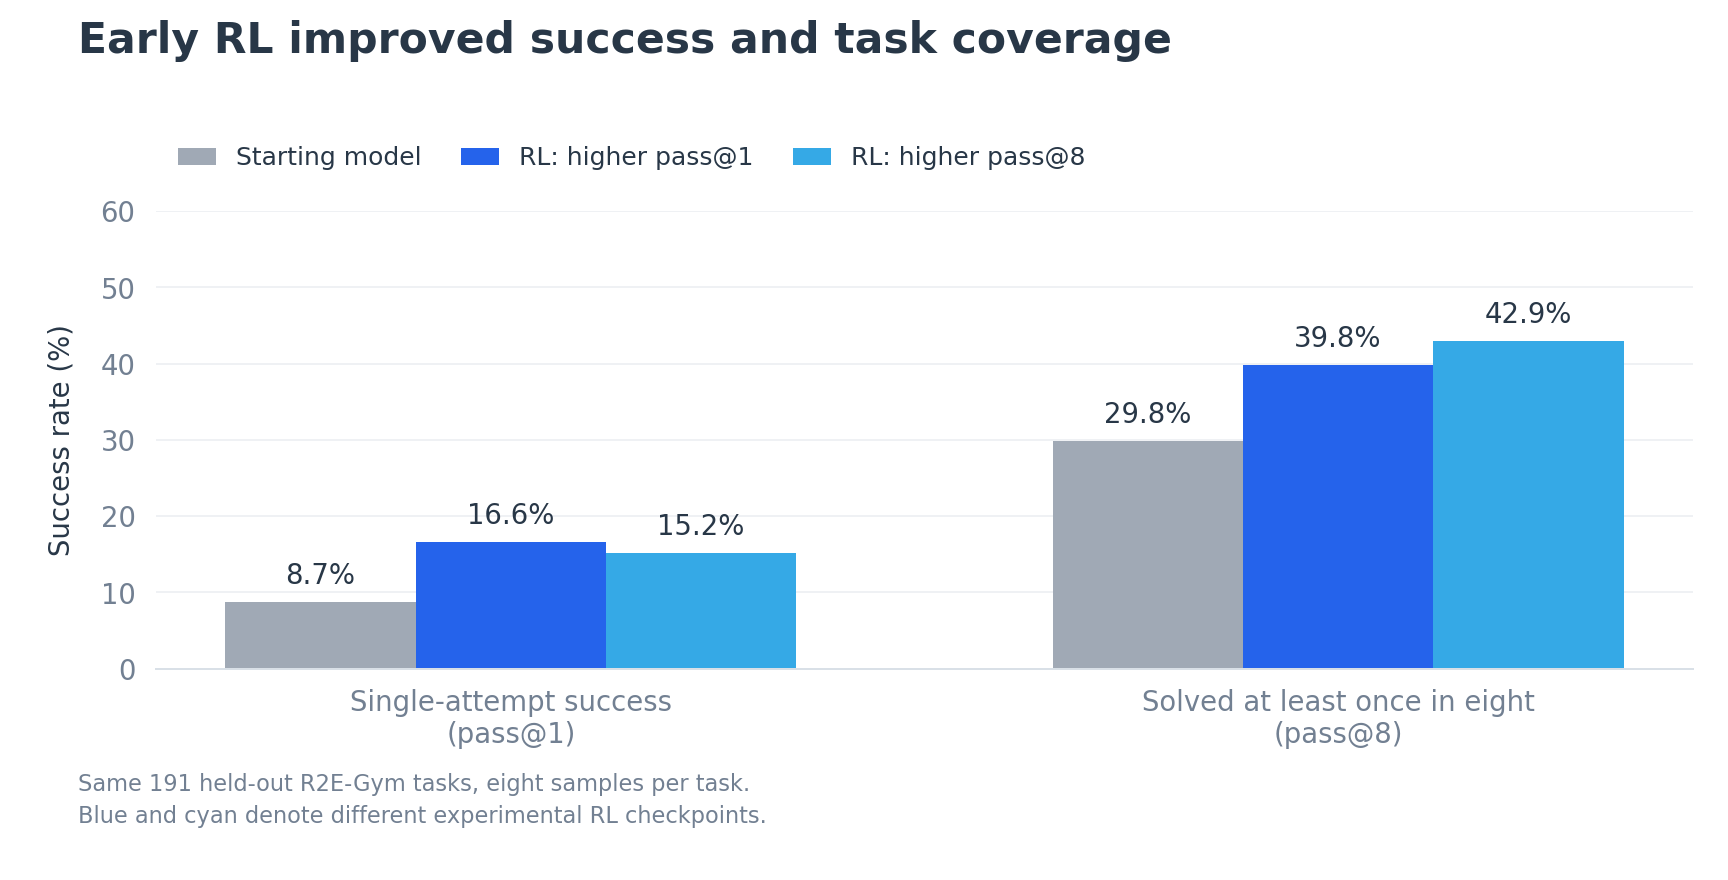
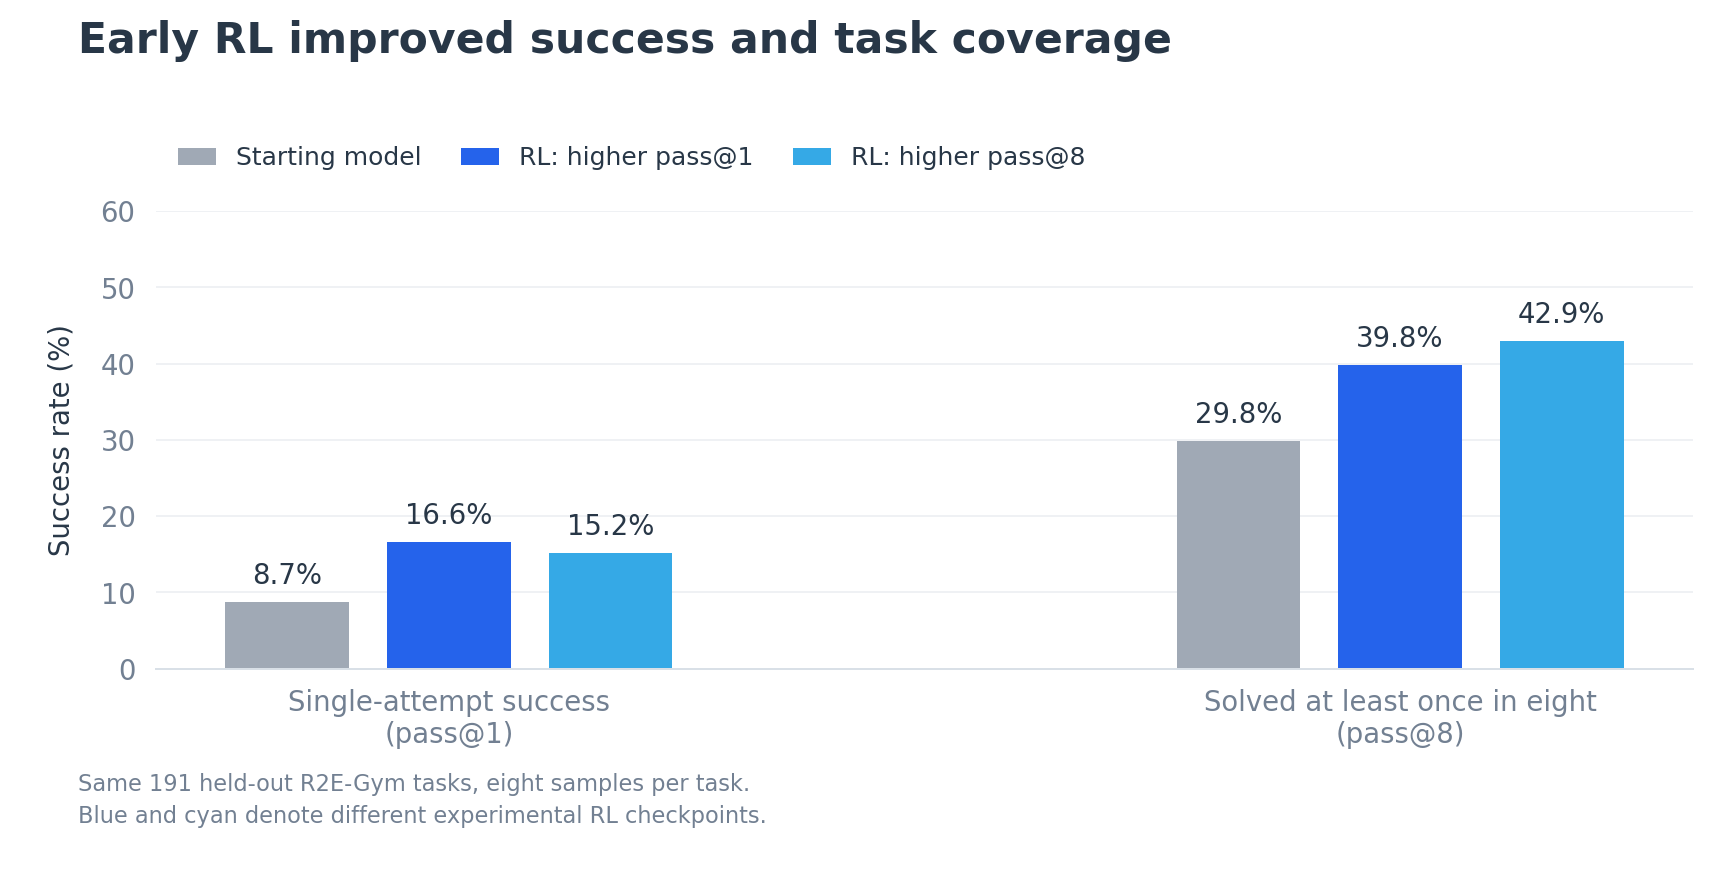
Slim early RL bars and separate checkpoints visually

Changed region(s): [[0.5938, 0.3375, 0.9375, 0.8591], [0.1562, 0.5523, 0.4688, 0.8591]]

diff --git a/scripts/render_snowball_results.py b/scripts/render_snowball_results.py
@@ -52,9 +52,10 @@ def early_rl():
         ("RL: higher pass@1", [16.6, 39.8], BLUE),
         ("RL: higher pass@8", [15.2, 42.9], LIGHT),
     ]
-    width = .23
+    width = .13
+    spacing = .17
     for i, (label, values, color) in enumerate(series):
-        bars = ax.bar(x + (i - 1) * width, values, width, color=color, label=label)
+        bars = ax.bar(x + (i - 1) * spacing, values, width, color=color, label=label)
         ax.bar_label(bars, labels=[f"{v:.1f}%" for v in values],
                      padding=5, fontsize=11, color=INK)
     ax.set_ylim(0, 60)

diff --git a/_posts/2026-10-21-turning-snowball-into-a-coding-agent.md b/_posts/2026-10-21-turning-snowball-into-a-coding-agent.md
@@ -141,7 +141,7 @@ In the first held-out evaluation, RL nearly doubled pass@1 from 8.7% to 16.6%. B
 
 
 <figure class="research-figure">
-<a href="{{ '/assets/img/snowball/early-rl-labeled.png?v=crisp-blue' | relative_url }}"><img src="{{ '/assets/img/snowball/early-rl-labeled.png?v=crisp-blue' | relative_url }}" alt="Starting model and two RL checkpoints, labeled by their single-attempt success and task coverage." width="1728" height="880" loading="lazy"></a>
+<a href="{{ '/assets/img/snowball/early-rl-labeled.png?v=slim-bars' | relative_url }}"><img src="{{ '/assets/img/snowball/early-rl-labeled.png?v=slim-bars' | relative_url }}" alt="Starting model and two RL checkpoints, labeled by their single-attempt success and task coverage." width="1728" height="880" loading="lazy"></a>
 <figcaption>The same 191 held-out tasks, eight attempts each. Both RL recipes also solved tasks the base missed in all eight attempts; this does not mean the base could never solve them.</figcaption>
 </figure>
 
